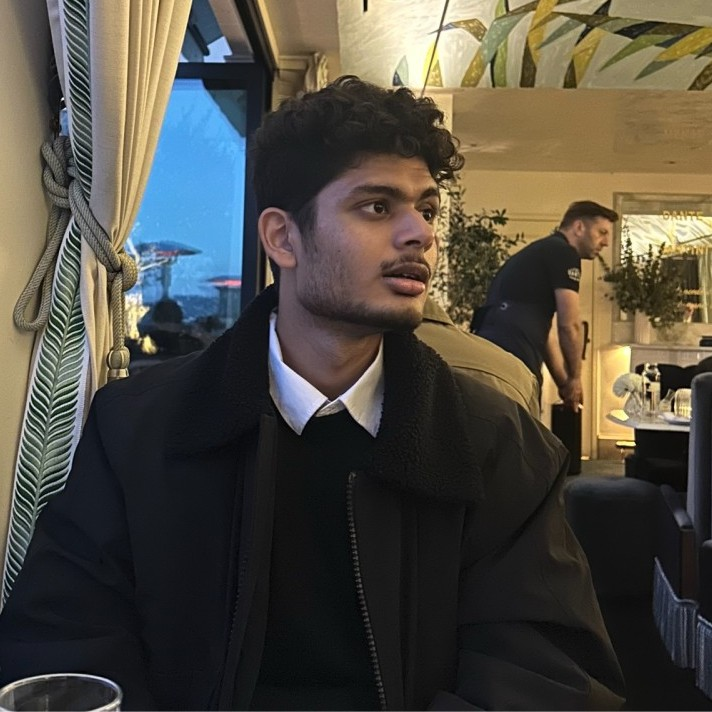
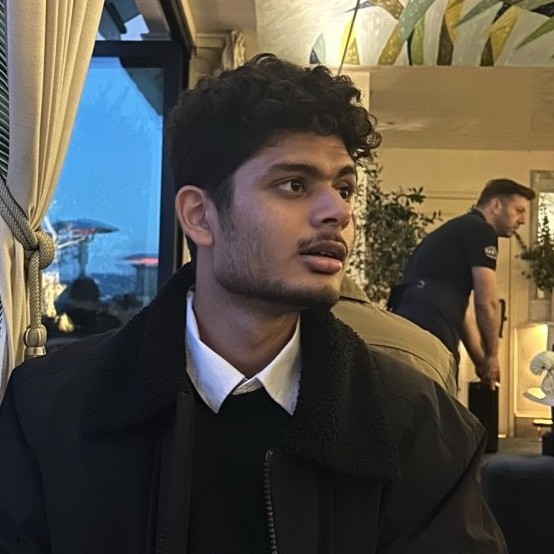
Update headshot formatting

diff --git a/src/components/AmbassadorCard/AmbassadorCard.module.css b/src/components/AmbassadorCard/AmbassadorCard.module.css
@@ -1,5 +1,5 @@
 .container {
-  width: 16rem;
+  width: 15rem;
   font-family: var(--font-nunito-sans);
   display: flex;
   flex-direction: column;
@@ -9,6 +9,10 @@
 .photo {
   aspect-ratio: 1;
   background-size: cover;
+  background-position: center;
+  background-repeat: no-repeat;
+  background-color: #fff;     /* White background if headshot fails to load */
+  flex-shrink: 0;               /* Headshot won't shrink */
 }
 
 .ambassadorDetails {
@@ -18,12 +22,12 @@
 .ambassadorName {
   font-weight: bold;
   font-size: 1.25rem;
-  margin: 0 0 0.5rem 0;
+  margin: 0 0 0.125rem 0;
   text-align: center;
 }
 
 .ambassadorRole {
-  font-size: 1rem;
+  font-size: 1.1rem;
   margin: 0 0 0.5rem 0;
   text-align: center;
 }

diff --git a/src/app/(public)/ambassadors/page.tsx b/src/app/(public)/ambassadors/page.tsx
@@ -412,7 +412,7 @@ export default function AmbassadorsPage() {
       <div className={styles.ambassadorCards}>
         <AmbassadorCard
           color="red"
-          photoURL="../../../../headshots/growth-analytics/asmita-dulla.jpeg"
+          photoURL="../../../../headshots/growth-analytics/asmita-dulla.png"
           name="Asmita Dulla"
           role="Lead Ambassador"
         />
